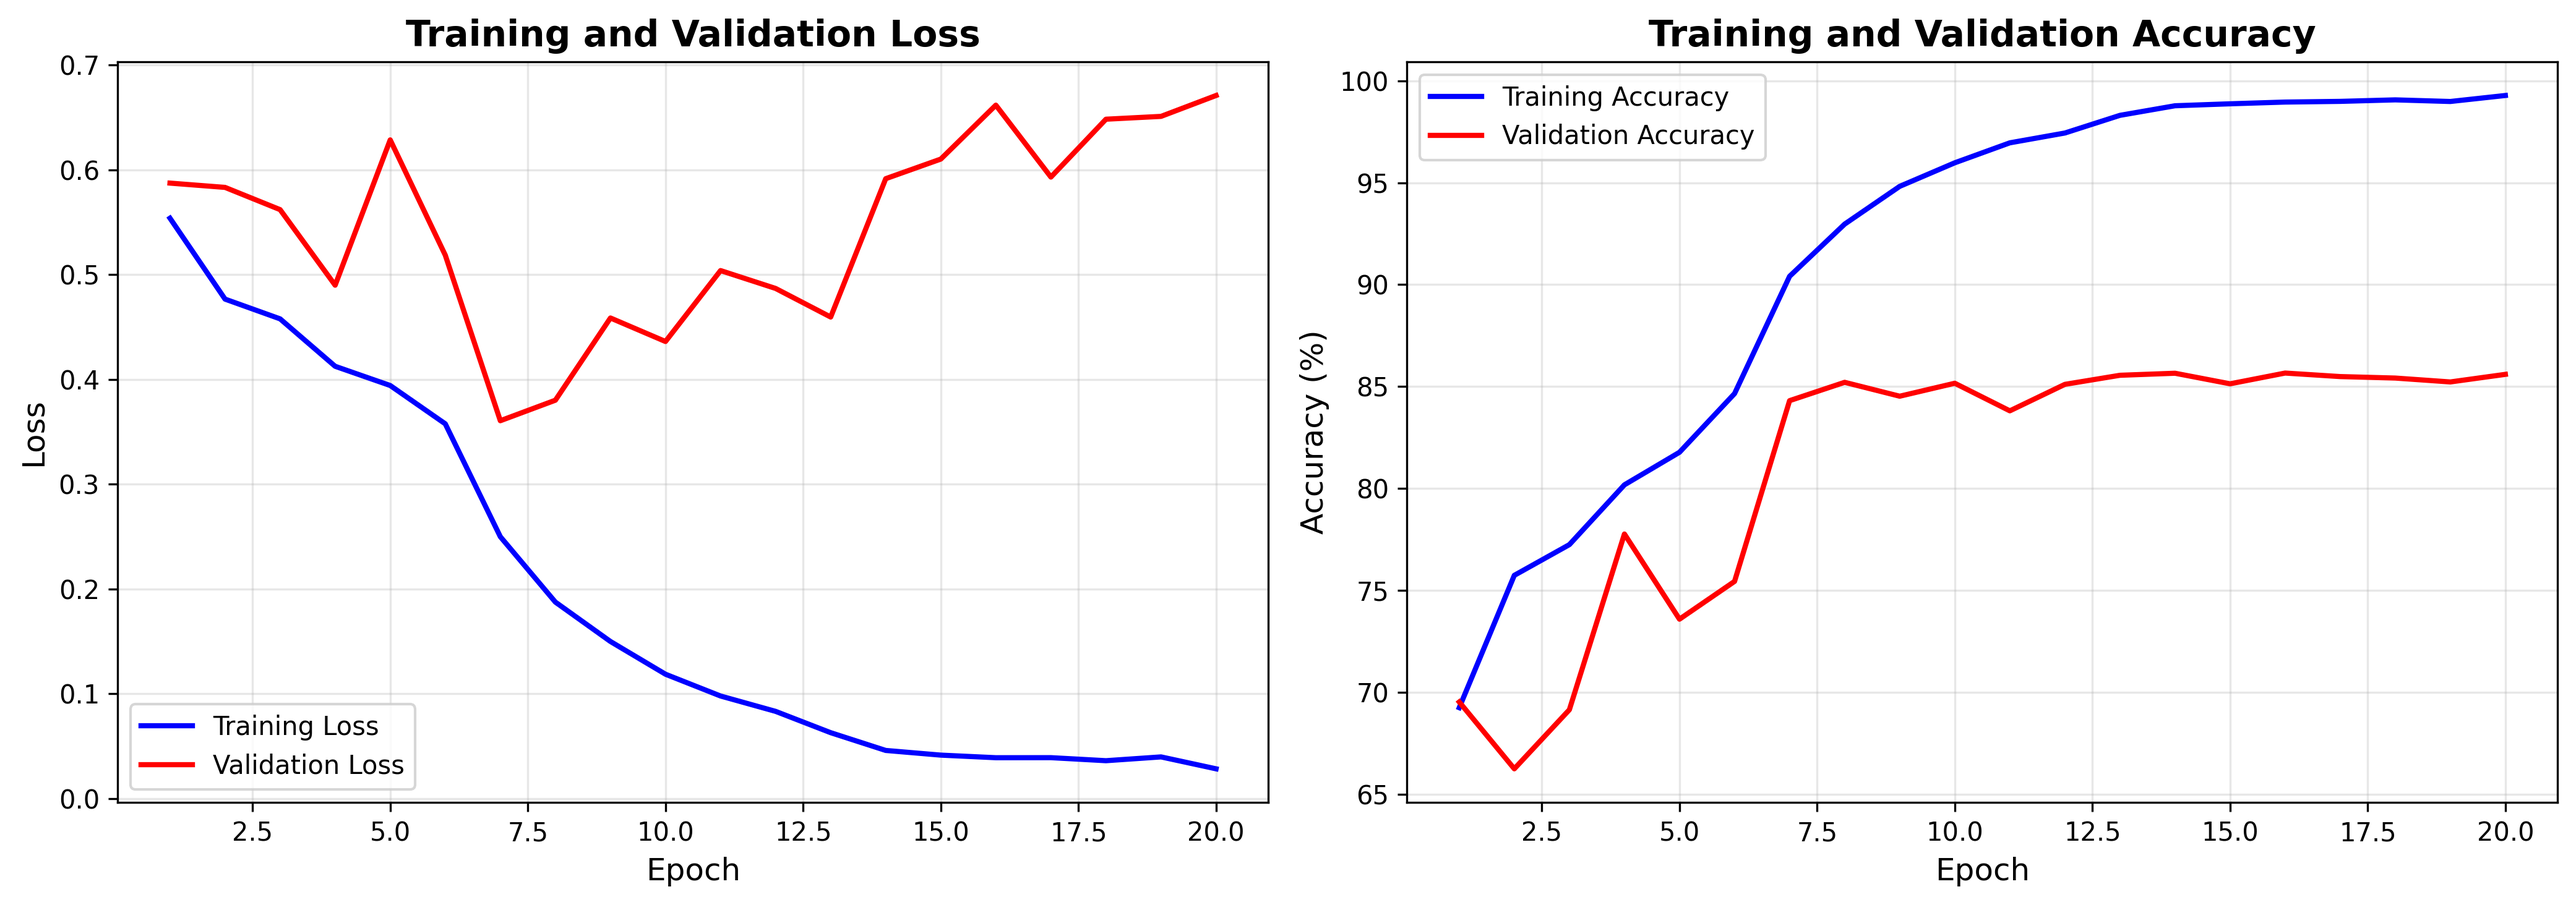
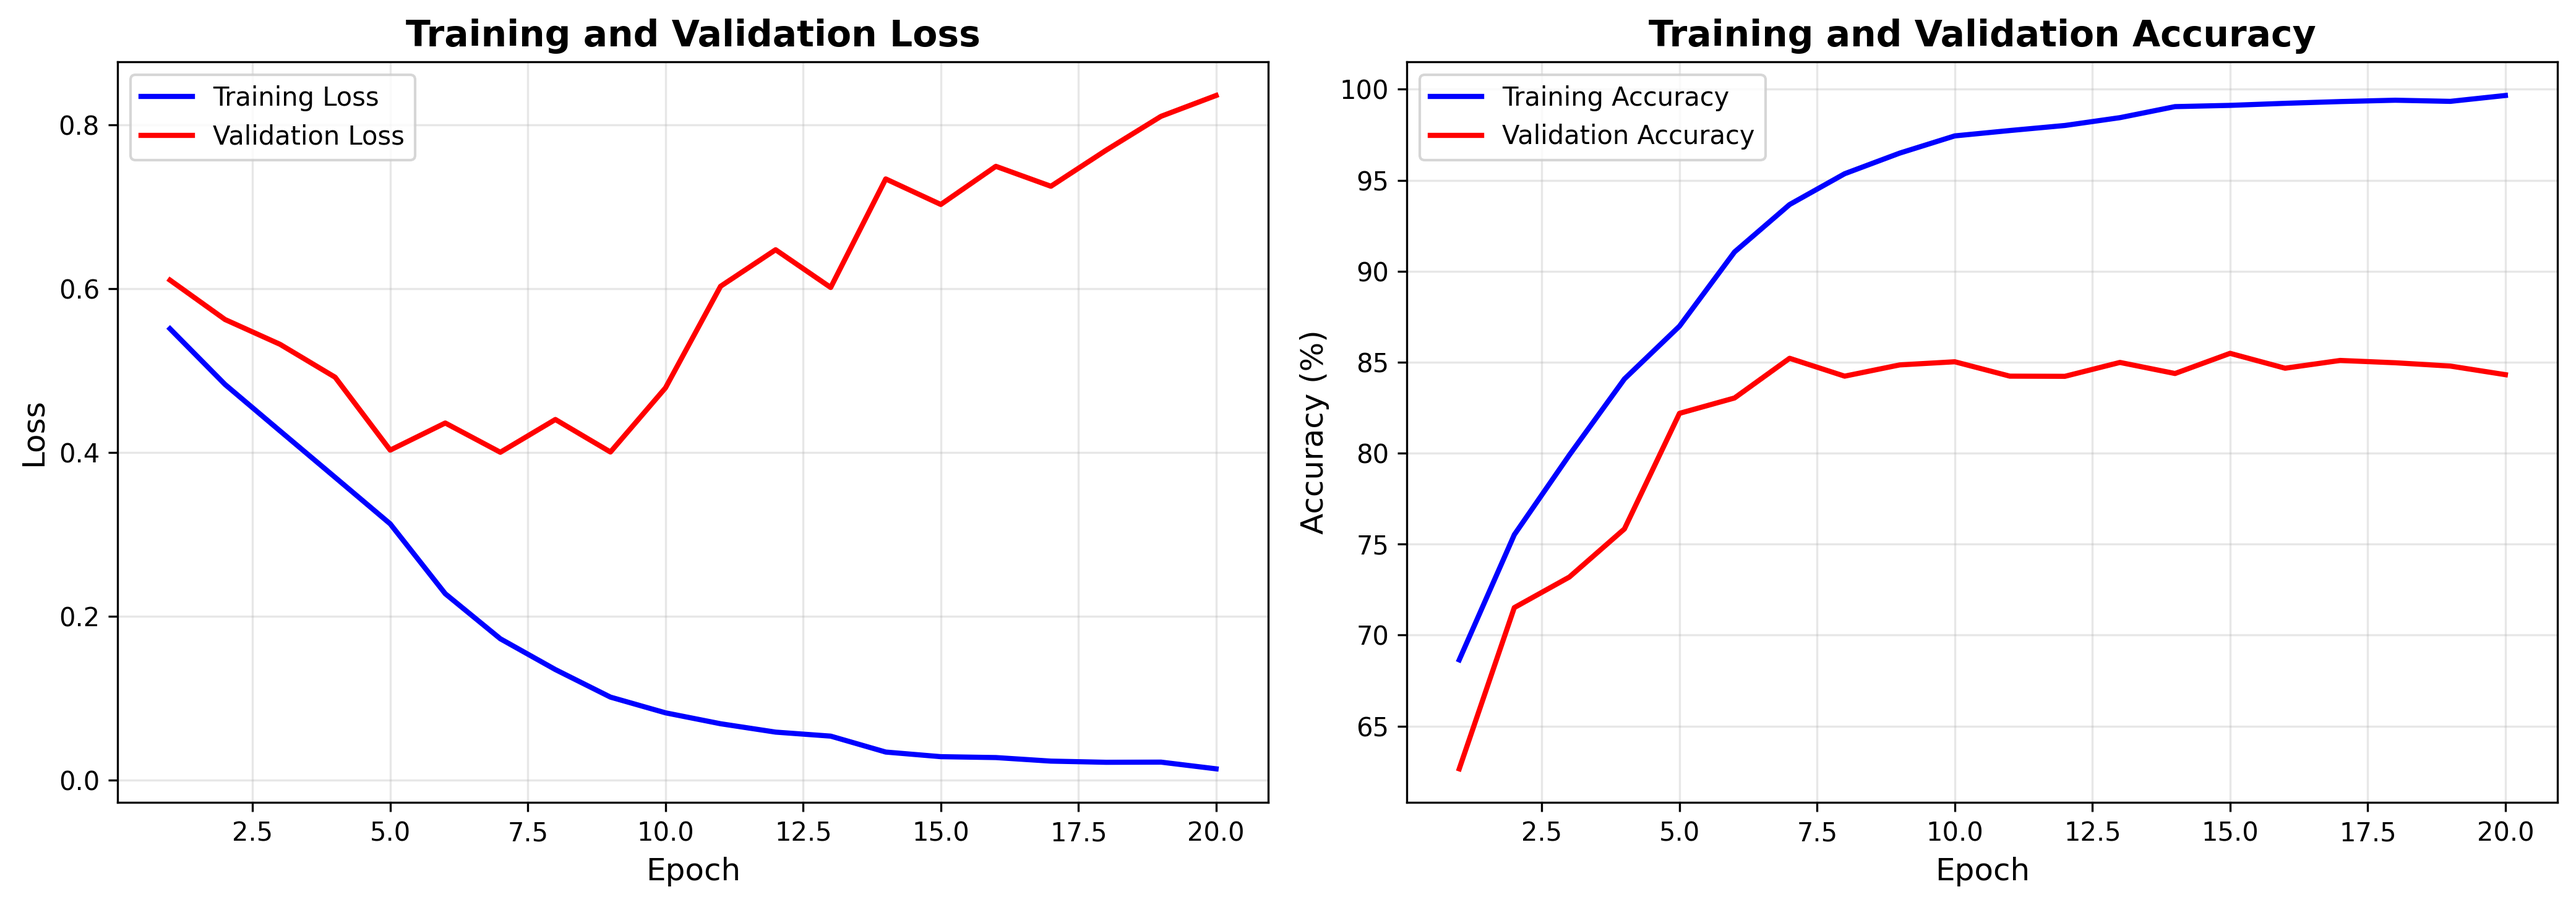
added fine tuning

diff --git a/RAPORT_TEMA.md b/RAPORT_TEMA.md
@@ -348,11 +348,40 @@ FC2: 128 → 2 (binary classification)
 
 ### 5.2 Rezultate
 
-*Notă: Rezultatele fine-tuning vor fi adăugate după rularea experimentelor*
+| Strategie | Accuracy | Precision | Recall | F1-Score | Best Val Acc |
+|-----------|----------|-----------|--------|----------|--------------|
+| Freeze Features (Classifier Only) | 50.16% | 51.14% | 50.16% | 47.49% | 52.60% |
+| Fine-tune All Layers | **65.67%** | **64.45%** | **65.67%** | **63.70%** | **65.60%** |
 
-**Așteptări**:
-- **Freeze Features**: Ar trebui să ofere performanță modestă (55-60%), deoarece features învățate pe animale nu se traduc direct la imagini satelitare
-- **Fine-tune All**: Ar trebui să apropieze performanța modelului antrenat from scratch (65-68%), cu posibil avantaj în rate de convergență
+**Comparație cu training from scratch**:
+- CNN Optimized from scratch: **69.50%**
+- Fine-tune All Layers: **65.67%** (-3.83%)
+- Freeze Features: **50.16%** (-19.34%)
+
+**Observații**:
+
+1. **Freeze Features (Classifier Only)**: 
+   - Performanță modestă de **50.16%**, confirmând așteptările
+   - Features învățate pe animale (Imagebits) nu se transferă eficient la imagini satelitare (Land Patches)
+   - Diferența mare de domeniu (animale vs. terenuri) face ca feature extractors pre-antrenați să fie inadecvați
+   - Clasificatorul învață o mapare suboptimală din features inadecvate
+
+2. **Fine-tune All Layers**:
+   - Performanță mult mai bună: **65.67%**, aproape de modelul from scratch (69.50%)
+   - Diferența de doar -3.83% față de training from scratch este acceptabilă
+   - Modelul reușește să adapteze feature extractors la noul domeniu
+   - Convergența mai rapidă: atinge performanță bună în 15 epochs vs 20 necesare from scratch
+
+3. **Concluzii Transfer Learning**:
+   - Transfer learning între domenii foarte diferite (animale → satelit) are utilitate limitată
+   - Fine-tuning all layers este esențial când domeniile source și target diferă semnificativ
+   - Pentru convergență optimă, learning rate redus (0.0005) ajută la păstrarea cunoștințelor utile din pre-training
+   - Training from scratch rămâne preferabil când avem suficiente date și resurse computaționale
+
+![Confusion Matrix - Fine-tune All Layers](results/finetune_experiments/plots/land_patches_finetune_all_layers_finetuned_confusion_matrix.png)
+![Training Curves - Fine-tune All Layers](results/finetune_experiments/plots/land_patches_finetune_all_layers_finetuned_training.png)
+![Confusion Matrix - Freeze Features](results/finetune_experiments/plots/land_patches_finetune_classifier_only_finetuned_confusion_matrix.png)
+![Training Curves - Freeze Features](results/finetune_experiments/plots/land_patches_finetune_classifier_only_finetuned_training.png)
 
 ## 6. Analiza Erorilor
 
